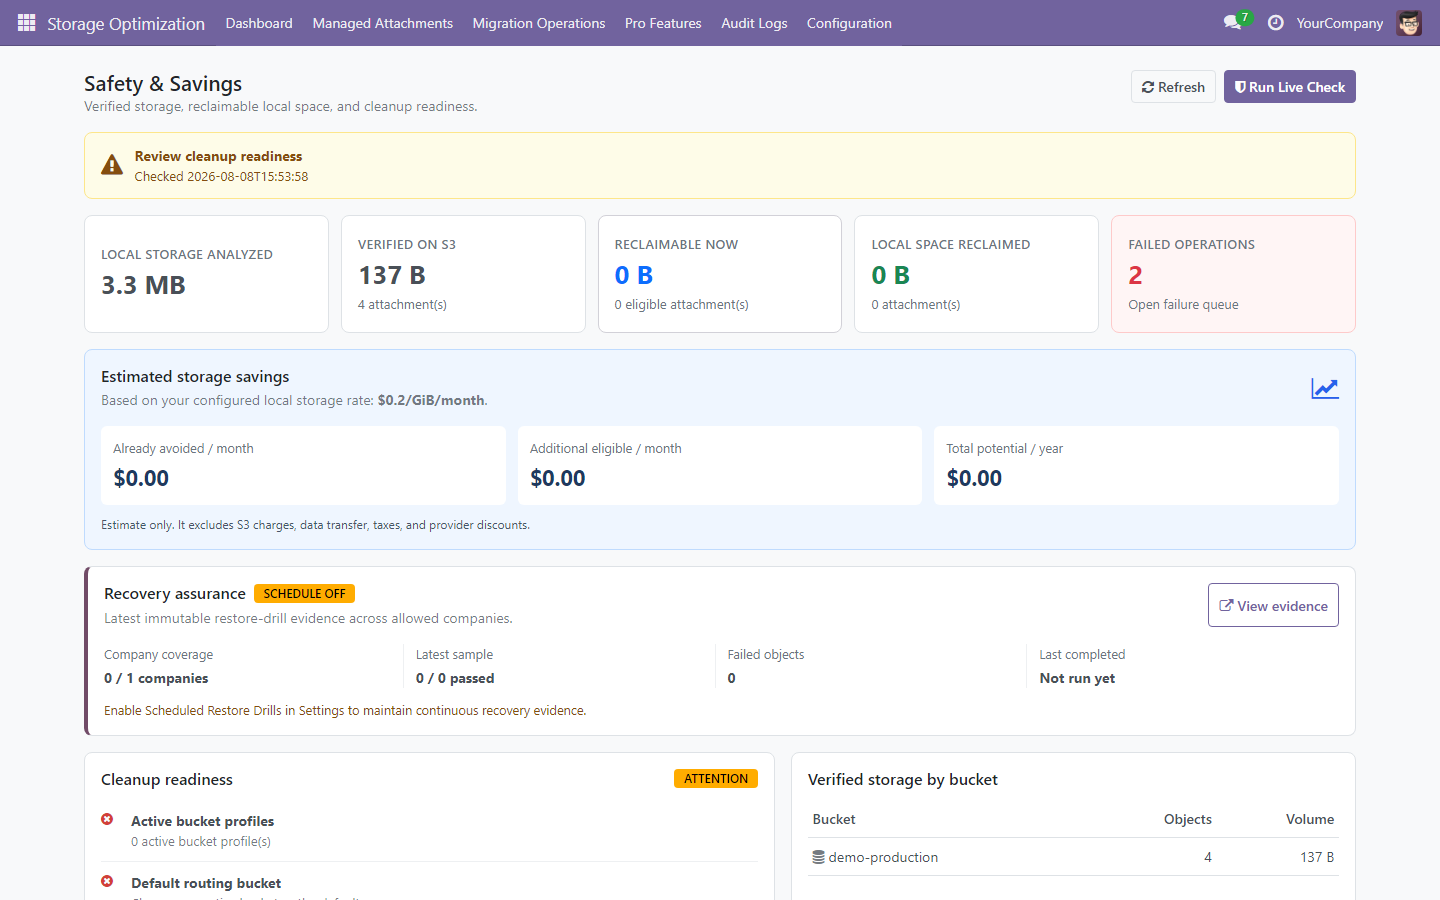
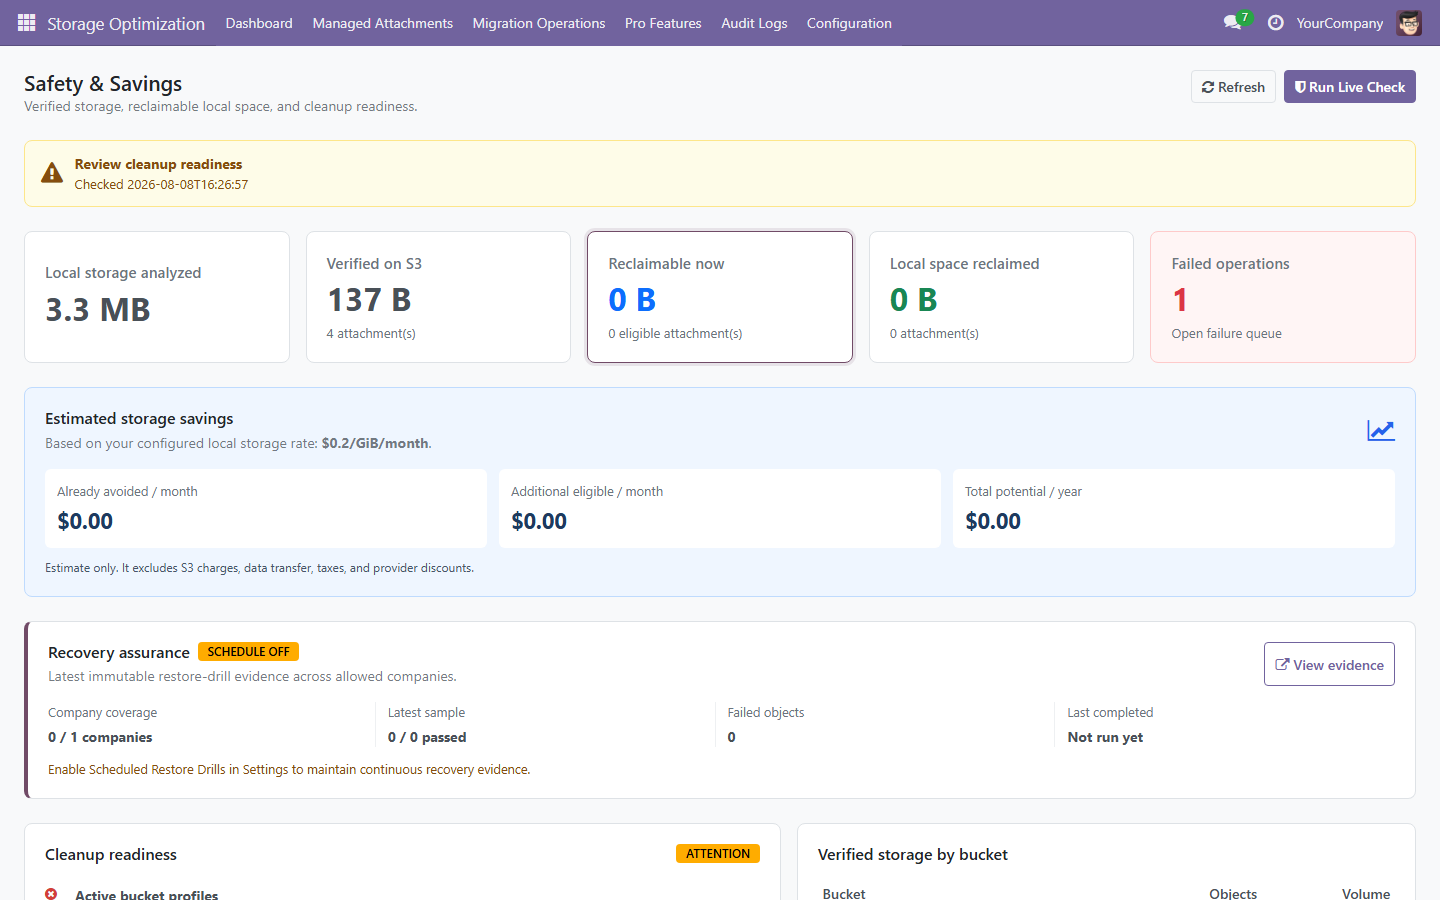
Improve Pro dashboard layout and loading state

diff --git a/attachment_optimizer_pro/static/src/components/pro_dashboard/pro_dashboard.scss b/attachment_optimizer_pro/static/src/components/pro_dashboard/pro_dashboard.scss
@@ -1,7 +1,10 @@
 .o_pro_safety_dashboard {
-    max-width: 1320px;
-    margin: 0 auto;
+    width: 100%;
+    margin: 0;
     padding: 24px;
+    box-sizing: border-box;
+    min-height: 100%;
+    position: relative;
 }
 
 .o_pro_dashboard_header,
@@ -12,7 +15,7 @@
     gap: 16px;
 }
 
-.o_pro_dashboard_header { margin-bottom: 16px; }
+.o_pro_dashboard_header { margin-bottom: 24px; }
 .o_pro_dashboard_header h2,
 .o_pro_panel_header h3 { margin: 0; }
 .o_pro_panel_header h3 { font-size: 1rem; font-weight: 600; }
@@ -25,7 +28,7 @@
     border: 1px solid;
     border-radius: 8px;
     padding: 12px 16px;
-    margin-bottom: 16px;
+    margin-bottom: 24px;
 }
 .o_pro_readiness_banner > i { font-size: 1.35rem; }
 .o_pro_ready { color: #166534; background: #f0fdf4; border-color: #bbf7d0; }
@@ -34,13 +37,13 @@
 .o_pro_kpi_grid {
     display: grid;
     grid-template-columns: repeat(5, minmax(0, 1fr));
-    gap: 12px;
-    margin-bottom: 16px;
+    gap: 16px;
+    margin-bottom: 24px;
 }
 .o_pro_kpi_card {
     min-width: 0;
-    min-height: 118px;
-    padding: 16px;
+    min-height: 124px;
+    padding: 20px;
     border: 1px solid #dee2e6;
     border-radius: 8px;
     background: var(--o-view-background-color, #fff);
@@ -50,10 +53,15 @@
     flex-direction: column;
     justify-content: center;
 }
-.o_pro_kpi_card strong { font-size: 1.6rem; line-height: 1.2; margin: 5px 0; }
+.o_pro_kpi_card strong {
+    font-size: 2rem;
+    line-height: 1.2;
+    margin: 5px 0;
+    font-variant-numeric: tabular-nums;
+}
 .o_pro_kpi_card small,
 .o_pro_kpi_label { color: var(--o-gray-600, #6c757d); }
-.o_pro_kpi_label { font-size: 0.8rem; font-weight: 600; text-transform: uppercase; letter-spacing: .03em; }
+.o_pro_kpi_label { font-size: .95rem; font-weight: 600; }
 .o_pro_kpi_action { cursor: pointer; transition: border-color .15s ease, box-shadow .15s ease; }
 .o_pro_kpi_action:hover,
 .o_pro_kpi_action:focus-visible { border-color: var(--o-brand-primary, #714b67); box-shadow: 0 0 0 3px rgba(113, 75, 103, .12); outline: 0; }
@@ -63,8 +71,8 @@
 .o_pro_kpi_danger strong { color: #dc3545; }
 
 .o_pro_savings_panel {
-    margin-bottom: 16px;
-    padding: 16px;
+    margin-bottom: 24px;
+    padding: 20px;
     border: 1px solid #bfdbfe;
     border-radius: 8px;
     background: #eff6ff;
@@ -94,8 +102,8 @@
 .o_pro_savings_metrics strong { display: block; margin-top: 4px; font-size: 1.35rem; }
 .o_pro_savings_note { color: #475569; font-size: .75rem; }
 .o_pro_assurance_panel {
-    margin-bottom: 16px;
-    padding: 16px;
+    margin-bottom: 24px;
+    padding: 20px;
     border: 1px solid #dee2e6;
     border-left: 4px solid var(--o-brand-primary, #714b67);
     border-radius: 8px;
@@ -122,12 +130,26 @@
 .o_pro_assurance_hint { margin-top: 12px; color: #854d0e; font-size: .8rem; }
 .o_pro_assurance_error { color: #b42318; }
 .o_pro_dashboard_columns { display: grid; grid-template-columns: 1.1fr .9fr; gap: 16px; }
-.o_pro_panel { background: var(--o-view-background-color, #fff); border: 1px solid #dee2e6; border-radius: 8px; padding: 16px; }
+.o_pro_panel { background: var(--o-view-background-color, #fff); border: 1px solid #dee2e6; border-radius: 8px; padding: 20px; }
 .o_pro_panel_header { align-items: center; margin-bottom: 12px; }
 .o_pro_check_list { display: flex; flex-direction: column; }
 .o_pro_check { display: grid; grid-template-columns: 20px 1fr; gap: 10px; padding: 10px 0; border-top: 1px solid #eef0f2; }
 .o_pro_check:first-child { border-top: 0; }
 .o_pro_check > i { margin-top: 2px; }
+
+.o_pro_dashboard_overlay {
+    position: absolute;
+    inset: 0;
+    z-index: 10;
+    display: flex;
+    flex-direction: column;
+    align-items: center;
+    justify-content: center;
+    min-height: 320px;
+    background: var(--o-view-background-color, #fff);
+    color: var(--o-gray-600, #6c757d);
+}
+.o_pro_dashboard_overlay p { margin: 12px 0 0; }
 
 @media (max-width: 1100px) {
     .o_pro_kpi_grid { grid-template-columns: repeat(3, minmax(0, 1fr)); }

diff --git a/attachment_optimizer_pro/static/description/index.html b/attachment_optimizer_pro/static/description/index.html
@@ -96,6 +96,6 @@ For subsequent modules, update content inside sections only. Do not alter sectio
     </div>
 
     <!-- FOOTER -->
-    <div style="border:1px solid #e2e8f0; border-radius:16px; padding:32px 24px; margin:40px 0 16px; text-align:center;"><div style="font-size:14px; font-weight:700; color:#1e293b; text-transform:uppercase;">Attachment Optimizer Pro</div><p style="font-size:13px; color:#64748b; line-height:1.6;">Automated, verified S3-compatible attachment lifecycle management for Odoo.</p><div style="display:inline-block; border:2px solid #4f46e5; color:#4f46e5; font-weight:700; font-size:13px; padding:10px 28px; border-radius:8px;">US$49 · One-Time · No Subscription</div><p style="font-size:11px; color:#94a3b8; margin:20px 0 0;">Version 18.0.1.0.16 · Built and maintained by FoxPink</p></div>
+    <div style="border:1px solid #e2e8f0; border-radius:16px; padding:32px 24px; margin:40px 0 16px; text-align:center;"><div style="font-size:14px; font-weight:700; color:#1e293b; text-transform:uppercase;">Attachment Optimizer Pro</div><p style="font-size:13px; color:#64748b; line-height:1.6;">Automated, verified S3-compatible attachment lifecycle management for Odoo.</p><div style="display:inline-block; border:2px solid #4f46e5; color:#4f46e5; font-weight:700; font-size:13px; padding:10px 28px; border-radius:8px;">US$49 · One-Time · No Subscription</div><p style="font-size:11px; color:#94a3b8; margin:20px 0 0;">Version 18.0.1.0.17 · Built and maintained by FoxPink</p></div>
   </div>
 </section>

diff --git a/attachment_optimizer_pro/__manifest__.py b/attachment_optimizer_pro/__manifest__.py
@@ -1,6 +1,6 @@
 {
     "name": "Attachment Optimizer Pro",
-    "version": "18.0.1.0.16",
+    "version": "18.0.1.0.17",
     "category": "Storage",
     "summary": "Automation, cleanup, routing and lifecycle for S3-compatible attachment storage.",
     "description": """

diff --git a/README.md b/README.md
@@ -8,7 +8,7 @@ Only update product content, version, links, compatibility status, screenshots, 
 
 ![Attachment Optimizer Pro](attachment_optimizer_pro/static/description/preview.png)
 
-**Version:** 18.0.1.0.16 -- **License:** OPL-1 -- **Publisher:** FoxPink -- Maintained for **Odoo 18.0**
+**Version:** 18.0.1.0.17 -- **License:** OPL-1 -- **Publisher:** FoxPink -- Maintained for **Odoo 18.0**
 
 ---
 
